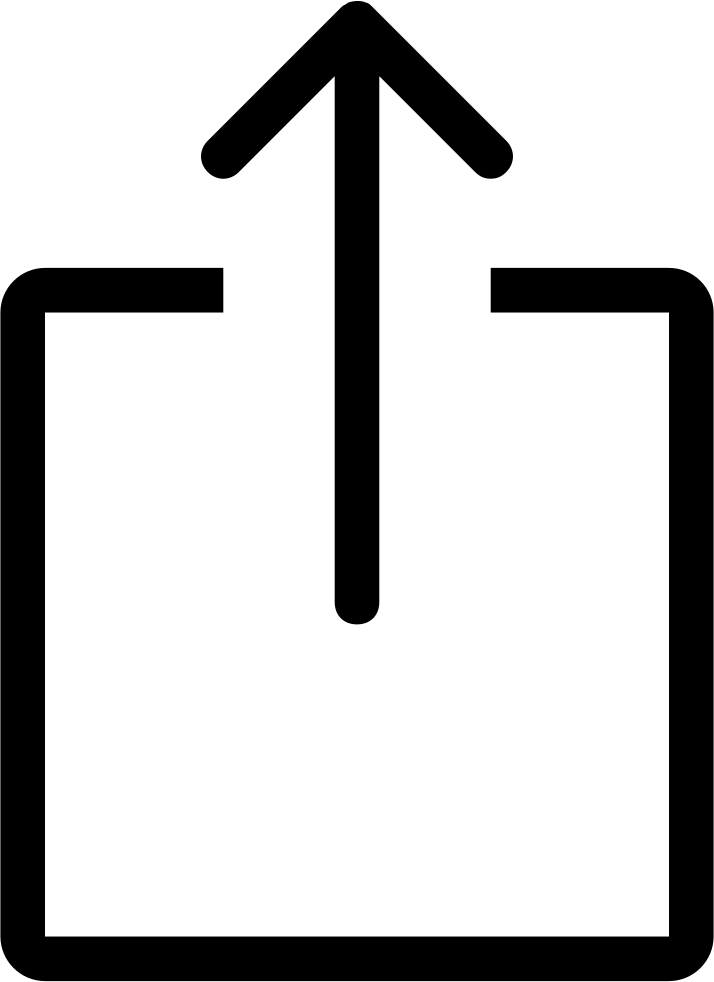
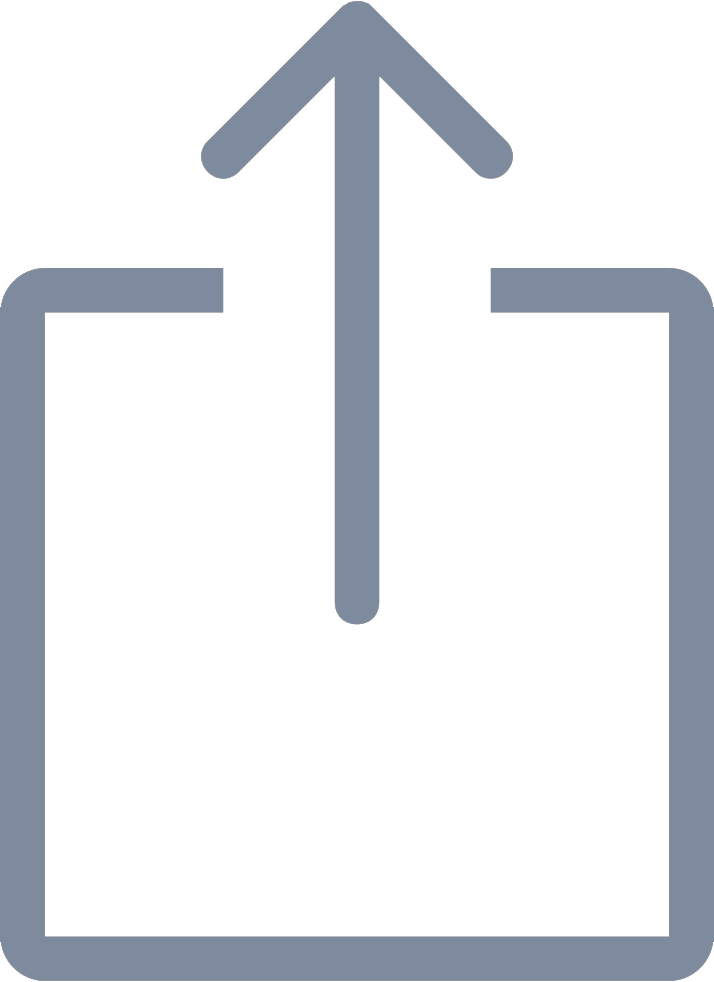
update

Changed region(s): [[0.0, 0.2749, 1.0, 1.0], [0.2773, 0.0, 0.7395, 0.6415]]

diff --git a/storefront-child/assets/css/store-child.css b/storefront-child/assets/css/store-child.css
@@ -1281,12 +1281,6 @@ body .storefront-handheld-footer-bar ul.columns-5{
 .alert.error-minimum p{
     margin-bottom: 0;
 }
-.btn-ios svg{
-    width: 30px;
+.btn-ios img{
+    width: 20px;
 }
-.site .js-btn-share.btn-ios svg path{
-    fill: #7e8b9f;
-}
-.site .js-btn-share.btn-ios svg.svg-click path{
-    fill: #ff9d00;
-} 

diff --git a/storefront/inc/storefront-template-functions.php b/storefront/inc/storefront-template-functions.php
@@ -201,7 +201,7 @@ if ( ! function_exists( 'storefront_site_branding' ) ) {
         	$share_link_custom = site_url('investment-opportunity') . $query;
         	?>
         <div class="btn-share dropdown">
-			<!-- <a href="javascript:void(0)" class="js-btn-share btn-ios"><img src="<?php echo get_stylesheet_directory_uri(); ?>/images/ios.png"></i></a> -->
+			<a href="javascript:void(0)" class="js-btn-share btn-ios"><img src="<?php echo get_stylesheet_directory_uri(); ?>/images/ios.png"></i></a>
 			<a href="javascript:void(0)" class="js-btn-share btn-and"><img src="<?php echo get_stylesheet_directory_uri(); ?>/images/Group-4507.svg"></a>
 			
              <div id="myDropdown" class="dropdown-content">
